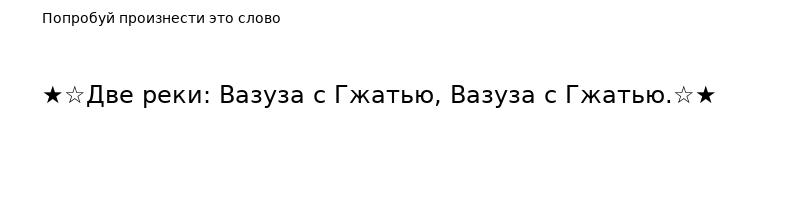
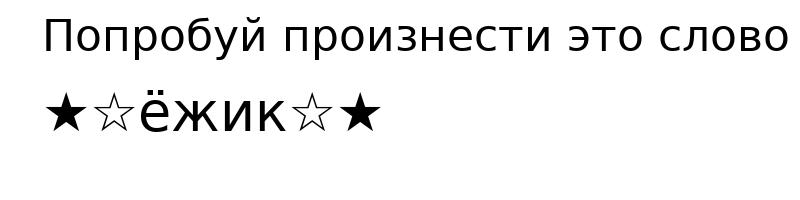
update

Changed region(s): [[0.0312, 0.06, 1.0, 0.3], [0.0312, 0.42, 0.9062, 0.66]]

diff --git a/asr-med.py b/asr-med.py
@@ -60,9 +60,10 @@ class SpeechCorrector:
         self._mouth_screen = (400, 400)
         self._audio_screen = (400, 200)
         self._stats_screen = (400, 200)
+        self._text_screen = (400, 200)
         assert self._webcam_screen[0] + self._mouth_screen[0] == self.W
         assert self._mouth_screen[1] + self._audio_screen[1] + self._stats_screen[1] == self.H
-        assert self._webcam_screen[1] == self.H - 200
+        assert self._webcam_screen[1] == self.H - self._text_screen[1]
         assert self._mouth_screen[0] == self._stats_screen[0] == self._audio_screen[0]
 
     def _get_background(self, shape=None):
@@ -72,13 +73,17 @@ class SpeechCorrector:
         _back[:] = color
         return _back
 
-    def _draw_circle(self, event, x, y, flags, param):
+    def _switch_mode(self, event, x, y, flags, param):
         if event == cv2.EVENT_LBUTTONDBLCLK:
             print("event")
             save_stream()
+
+            # switch levels
             self.data = GAME_DICT0 if self.data==GAME_DICT1 else GAME_DICT1
             self.FONT_SIZE = 24 if self.data == GAME_DICT1 else 54
             ta.FONT_SIZE = 24 if self.data == GAME_DICT1 else 42
+            ta.time_limit = 6 if self.data == GAME_DICT1 else 4
+
             self.word = np.random.choice(self.data)
             self.mouseX, self.mouseY = x, y
 
@@ -86,7 +91,7 @@ class SpeechCorrector:
         cap = cv2.VideoCapture(0)
         self.history_landmarks = []
         cv2.namedWindow('MedSpeech')
-        cv2.setMouseCallback('MedSpeech', self._draw_circle)
+        cv2.setMouseCallback('MedSpeech', self._switch_mode)
 
 
         with self.facemesh.FaceMesh(
@@ -133,7 +138,7 @@ class SpeechCorrector:
                         point_up = face_landmarks.landmark[13].x, face_landmarks.landmark[13].y
                         point_down = face_landmarks.landmark[14].x, face_landmarks.landmark[14].y
                         dist = get_distance(point_down, point_up)
-                        lips_color = (0, 255, 0) if dist > .04 else (42, 42, 42)  # (0, 132, 255)
+                        lips_color = (0, 255, 0) if dist > .02 else (42, 42, 42)  # (0, 132, 255)
 
                         for idx in self.landmarks_list:
                             rel_x = face_landmarks.landmark[idx].x

diff --git a/asr_utils/background_asr.py b/asr_utils/background_asr.py
@@ -1,5 +1,6 @@
 import speech_recognition as sr
 from vis_utils.vis_tools import generate_russian_text
+from asr_utils.audio_stream import save_stream
 from time import sleep
 import sys
 
@@ -8,35 +9,31 @@ class TestAudio:
     def __init__(self):
         self.rec = sr.Recognizer()
         self.mic = sr.Microphone()
+        self.time_limit = 4
         self.text = "[Тихо...]"
+        self.TEXT = "..."
         self.FONT_SIZE = 42
+        self.MODEL = "google"
 
     def on_listen(self, recognizer, audio):
-        try:
-            self.text = recognizer.recognize_google(audio, language='ru-RU').lower()
-        except sr.UnknownValueError as e:
-            pass
-        else:
-            generate_russian_text(self.text, one_line=True, shape=(400, 200),
-                                  font_size=self.FONT_SIZE, outfile="asr.jpg")
-            print('Вы сказали:', self.text)
+
+        if self.MODEL == "google":
+            try:
+                self.text = recognizer.recognize_google(audio, language='ru-RU').lower()
+            except sr.UnknownValueError as e:
+                pass
+            else:
+                generate_russian_text(self.text, one_line=True, shape=(400, 200),
+                                      font_size=self.FONT_SIZE, outfile="asr.jpg")
+                print('Вы сказали:', self.text)
+
+        elif self.MODEL == "vosk":
+            save_stream()
+
 
     def run(self):
         with self.mic as source:
             self.rec.pause_threshold = 1
             print('Тихо...')
-            self.rec.adjust_for_ambient_noise(source, duration=1)
-        self.rec.listen_in_background(sr.Microphone(), self.on_listen, phrase_time_limit=4)
-
-
-# r = sr.Recognizer()
-#
-# with sr.Microphone() as source:
-#     r.pause_threshold = 1
-#     print('Тихо...')
-#     r.adjust_for_ambient_noise(source, duration=1)
-#
-# print('Нажмите Enter для завершения')
-# print('Говорите...')
-# r.listen_in_background(sr.Microphone(), on_listen, phrase_time_limit=5)
-# input()
+            self.rec.adjust_for_ambient_noise(source, duration=2)
+        self.rec.listen_in_background(sr.Microphone(), self.on_listen, phrase_time_limit=self.time_limit)

diff --git a/asr_utils/audio_stream.py b/asr_utils/audio_stream.py
@@ -1,0 +1,40 @@
+import pyaudio
+import wave
+
+CHUNK = 1024
+FORMAT = pyaudio.paInt16
+CHANNELS = 2
+RATE = 44100
+RECORD_SECONDS = 5
+WAVE_OUTPUT_FILENAME = "output.wav"
+
+p = pyaudio.PyAudio()
+
+
+def save_stream():
+    stream = p.open(format=FORMAT,
+                    channels=CHANNELS,
+                    rate=RATE,
+                    input=True,
+                    frames_per_buffer=CHUNK)
+
+    print("* recording")
+
+    frames = []
+
+    for i in range(0, int(RATE / CHUNK * RECORD_SECONDS)):
+        data = stream.read(CHUNK)
+        frames.append(data)
+
+    print("* done recording")
+
+    stream.stop_stream()
+    stream.close()
+    p.terminate()
+
+    wf = wave.open(WAVE_OUTPUT_FILENAME, 'wb')
+    wf.setnchannels(CHANNELS)
+    wf.setsampwidth(p.get_sample_size(FORMAT))
+    wf.setframerate(RATE)
+    wf.writeframes(b''.join(frames))
+    wf.close()
